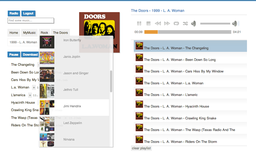
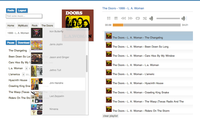
Added missing test resources. Updated screenshots.

diff --git a/tests/resources/Streams/html/get-home-index.html b/tests/resources/Streams/html/get-home-index.html
@@ -1,0 +1,8 @@
+<li class="dirlink-cover dirlinkcover" style="background:url('https://www.example.com/resources/music//MyMusic/small_montage.jpg') no-repeat left center; background-size:128px 128px;" data-url="//MyMusic">
+    <div class="linknamediv">
+        <div class="dirtext">
+            <a class="linkname">MyMusic</a> &nbsp; 
+        </div>
+    </div>
+    <div class="clear"></div>
+</li>

diff --git a/tests/resources/Streams/html/search-quoted-dezos-happysongs.html b/tests/resources/Streams/html/search-quoted-dezos-happysongs.html
@@ -1,0 +1,1 @@
+<li class="mp3"><span class="text"><a class="file-download-link" target="_blank" href="index.php?action=download&amp;file=">No results</a>   <code></code></span></li>
